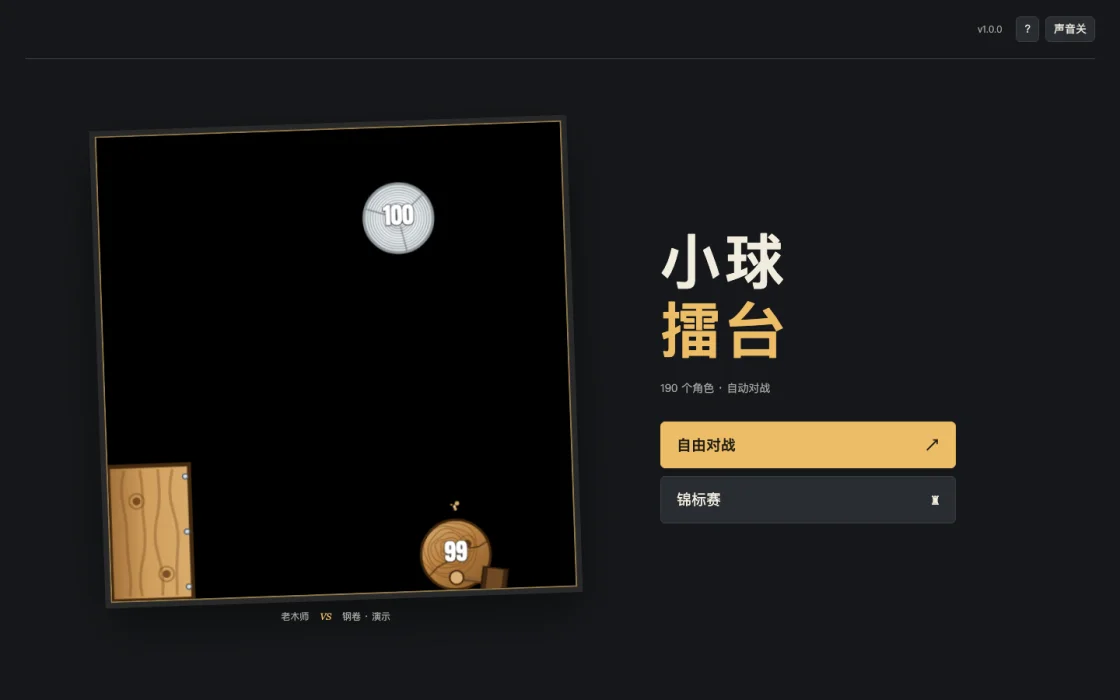
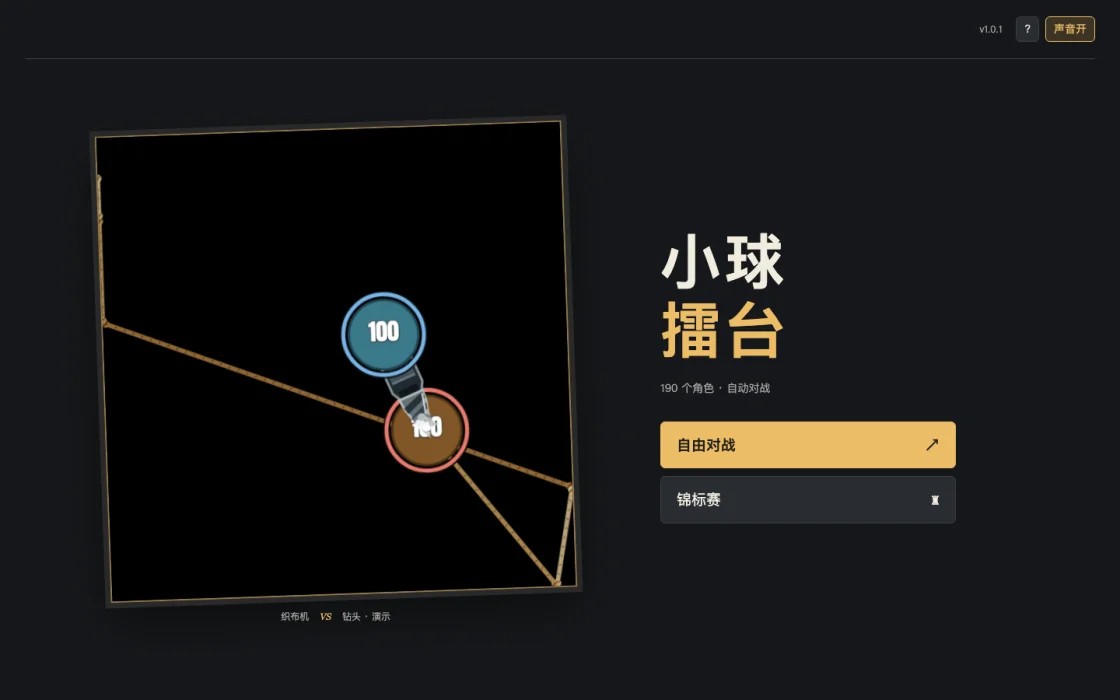
ball_arena: v1.0.1

diff --git a/games/ball_arena/web/style.css b/games/ball_arena/web/style.css
@@ -21,3 +21,5 @@ button.battle-note{padding:6px 0 0;background:none;border:0;border-radius:0;font
 @media(max-width:600px){.masthead #home-back{padding:3px 5px;font-size:11px}.home-screen{grid-template-columns:1fr;grid-template-rows:minmax(0,1fr) auto;gap:18px;padding:22px 24px 30px}.home-art{gap:11px}.home-arena{width:auto;height:calc(100% - 30px);max-width:100%;max-height:360px}.home-art p{font-size:10px}.home-menu{display:grid;grid-template-columns:1fr 1fr;gap:10px 20px;width:100%;max-width:none;align-items:center}.home-menu h2{font-size:43px;letter-spacing:2px;grid-row:1/3}.home-description{font-size:11px;margin-top:0;grid-column:1/-1;grid-row:3}.home-buttons{grid-column:2;grid-row:1/3;margin:0;gap:7px}.home-buttons>button{font-size:14px;padding:11px 12px;min-height:43px}.home-buttons>button[id^=home-continue]{padding:7px 10px;font-size:11px;min-height:30px}.tournament-heading{padding:14px 0 12px;gap:6px}.tournament-heading h2{font-size:22px}.tournament-heading p{font-size:10px}.tournament-heading-actions{gap:5px}.tournament-heading-actions button{font-size:11px;padding:6px 8px}.tournament-setup{grid-template-columns:1fr;gap:21px;padding:4px 0 18px;align-content:start}.tournament-screen legend{font-size:13px;margin-bottom:8px}.tournament-team-options button{font-size:22px;padding:13px 8px}.tournament-rule{font-size:11px;margin:9px 0}.tournament-options .check-row{margin:10px 0;padding:9px 0}.tournament-options #tournament-capacity{font-size:10px;margin-top:8px}#tournament-sizes{gap:7px}#tournament-sizes button{min-height:90px;padding:13px 9px}#tournament-sizes strong{font-size:20px}#tournament-sizes small{font-size:10px;line-height:1.6}.tournament-footer{gap:10px;padding:10px 0 max(12px,env(safe-area-inset-bottom))}.tournament-footer>div{min-width:0}.tournament-footer strong{font-size:12px}.tournament-footer p{font-size:10px;line-height:1.5}.tournament-footer .primary{font-size:13px;min-width:135px;padding:11px 12px}.tournament-matches{grid-template-columns:repeat(2,minmax(0,1fr));gap:7px}.tournament-match{padding:9px;gap:8px}.tournament-entrant{gap:6px}.tournament-entrant-copy strong{font-size:12px}.tournament-entrant-copy small{font-size:10px}.tournament-ball-dots i{width:13px;height:13px}.tournament-match-heading{font-size:10px}.tournament-match-heading small{font-size:9px}.tournament-champion{padding:10px 12px;margin-bottom:10px}.tournament-champion strong{font-size:20px}#tournament-rounds{gap:4px;padding-bottom:9px}#tournament-rounds button{font-size:11px;padding:5px 9px}#tournament-rounds small{margin-left:2px;font-size:9px}}
 @media(max-height:620px) and (min-width:650px){.home-screen{padding:15px 7%;gap:8%}.home-arena{width:auto;height:calc(100% - 28px);max-height:100%}.home-art{gap:8px}.home-menu h2{font-size:52px}.home-description{margin-top:10px;font-size:12px}.home-buttons{margin-top:17px;gap:7px}.home-buttons>button{font-size:16px;padding:9px 14px;min-height:39px}.home-buttons>button[id^=home-continue]{min-height:27px;padding:4px 14px;font-size:11px}.tournament-heading{padding:9px 0}.tournament-heading h2{font-size:21px}.tournament-heading p{font-size:11px}.tournament-setup{padding:4px 0 12px;gap:24px;align-content:center}.tournament-team-options button{padding:9px;font-size:22px}.tournament-rule{margin:8px 0;font-size:11px}.tournament-options .check-row{padding:7px 0;margin:7px 0}.tournament-options #tournament-capacity{font-size:11px;margin-top:6px}.tournament-screen legend{margin-bottom:7px;font-size:13px}#tournament-sizes{gap:7px}#tournament-sizes button{padding:11px;min-height:72px}#tournament-sizes strong{font-size:19px}#tournament-sizes small{font-size:10px}.tournament-footer{padding:8px 0}.tournament-footer .primary{padding:8px 14px;font-size:14px;min-width:165px}.tournament-footer p{font-size:11px}.tournament-champion{padding:7px 12px;margin-bottom:8px}.tournament-champion strong{font-size:18px}.tournament-champion>span{font-size:26px}#tournament-rounds{padding-bottom:8px}#tournament-rounds button{padding:4px 10px}.tournament-matches{gap:8px}.tournament-match{padding:9px}}
 @media(max-height:440px) and (min-width:650px){.home-menu h2{font-size:43px}.home-screen{padding:10px 8%;gap:8%}.home-description{margin-top:8px}.home-buttons{margin-top:12px;gap:6px}.home-buttons>button{font-size:14px;padding:8px 12px;min-height:34px}.home-buttons>button[id^=home-continue]{min-height:24px;font-size:10px}.tournament-heading{padding:7px 0}.tournament-heading h2{font-size:19px}.tournament-heading p{margin-top:0;font-size:10px}.tournament-heading-actions button{padding:4px 8px;font-size:11px}.tournament-setup{padding:3px 0 8px;gap:22px}.tournament-team-options button{padding:7px;font-size:20px}.tournament-rule{font-size:10px;margin:6px 0}.tournament-options .check-row{padding:6px 0;margin:6px 0}.tournament-options .check-row small{font-size:10px}.tournament-options #tournament-capacity{font-size:10px}.tournament-screen legend{font-size:12px;margin-bottom:6px}#tournament-sizes button{min-height:66px;padding:9px}#tournament-sizes small{font-size:10px;margin-top:4px}.tournament-footer{padding:6px 0}.tournament-footer strong{font-size:12px}.tournament-footer p{font-size:10px}.tournament-footer .primary{font-size:13px;padding:7px 12px;min-width:150px}.tournament-match{padding:8px;gap:5px}}
+
+.scoreboard.is-brawl .hp-fill{background:#b4aea0}.scoreboard.is-brawl .series-score span{color:var(--ink)}

diff --git a/games/ball_arena/web/app.js b/games/ball_arena/web/app.js
@@ -43,7 +43,7 @@ function drawHomeDemo(dt){
   $('home-demo-label').innerHTML=esc(left.name)+' <span>VS</span> '+esc(right.name)+' · 演示';
   $('home-arena').setAttribute('aria-label',left.name+'与'+right.name+'对战演示');$('home-arena').dataset.leftId=left.id;$('home-arena').dataset.rightId=right.id;
   const demo=B.createDeterministicSession({registry,seed,setup:e=>{e.createGame(left.id,right.id);e.beginFight();}});
-  homeDemo={session:demo,visibleSeconds:0,renderer:new B.CanvasRenderer($('home-arena'),demo.engine,{enableGpu:false,targetPixelSize:640})};
+  homeDemo={session:demo,visibleSeconds:0,renderer:new B.CanvasRenderer($('home-arena'),demo.engine,{enableGpu:false,targetPixelSize:640,teamColors:{left:'#ed796b',right:'#78b5e7'}})};
   homeDemo.renderer.readArenaShakeOffset=()=>({x:0,y:0});for(let i=0;i<180&&demo.engine.game.state==='running';i++)demo.advance(1/60);
  }
  homeDemo.visibleSeconds+=Math.min(.1,dt);
@@ -116,7 +116,7 @@ function teardown(){
  if(engine?.game){for(const ball of engine.game.balls)engine.invokeHook(ball,'onBattleDispose');engine.entitySystem.reset();engine.visualEffectSystem.reset();engine.activeModeController()?.dispose();}
  session=null;mechanisms=null;engine=null;renderer=null;accumulator=0;
 }
-function unlockAudio(){try{const ctx=audio.ensureContext();ctx?.resume().catch(()=>{});if(audio.master)audio.master.gain.value=.3;return true;}catch{return false;}}
+function unlockAudio(){try{const ctx=audio.ensureContext();ctx?.resume().catch(()=>{});if(audio.master)audio.master.gain.value=.8;return true;}catch{return false;}}
 function startMatch(){
  if(soundOn)unlockAudio();
  const error=M.validate(state,registry);if(error){toast(error);return;}
@@ -131,7 +131,7 @@ function startRound(seed,replay=false){
   session=B.createDeterministicSession({engine,seed:roundSeed,setup:e=>{e.createBattle(M.configFor(settings,B));mechanisms=new ArenaMechanisms(e,settings.hazards);e.beginFight();}});
   const update=engine.update.bind(engine);
   engine.update=dt=>{if(engine.game.state!=='running')return;const t=engine.game.time;update(dt);if(engine.game.state==='running')mechanisms.update(Math.max(0,engine.game.time-t));};
-  renderer=new B.CanvasRenderer($('arena'),engine,{enableGpu:false,targetPixelSize:800});
+  renderer=new B.CanvasRenderer($('arena'),engine,{enableGpu:false,targetPixelSize:800,teamColors:{left:'#ed796b',right:'#78b5e7'}});
   if(reduced.matches)renderer.readArenaShakeOffset=()=>({x:0,y:0});
   showScreen('battle');$('pause-indicator').hidden=true;$('pause').textContent='暂停';$('pause').disabled=false;$('step').disabled=true;
   resizeArena();renderHud();drawBattle();
@@ -147,6 +147,7 @@ function drawBattle(){if(!renderer||!engine?.game)return;renderer.draw();const c
 function renderHud(){
  if(!engine)return;
  const g=engine.game,s=matchState;
+ $('scoreboard').classList.toggle('is-brawl',s.mode==='brawl');
  $('timer').textContent=`${Math.floor((session?.steps||0)/3600)}:${String(Math.floor((session?.steps||0)/60)%60).padStart(2,'0')} / 3:00`;
  $('match-label').textContent=battleContext?(battleContext.title+(replaying?' · 重放':'')):M.MODES[s.mode]+(s.mode!=='brawl'&&series.length>1?` · 第 ${series.round} 局${replaying?' · 重放':''}`:replaying?' · 重放':'');
  const teamHtml=(balls,right=false)=>{const hp=balls.reduce((n,b)=>n+Math.max(0,b.hp),0),max=balls.reduce((n,b)=>n+b.maxHp,0),names=balls.map(b=>b.name+(b.hp<=0?' ×':b.isModeBench?' ·候场':'')).join(' / ');return `<div class="team-score ${right?'right':''}"><button class="names" data-team-roster="${right?1:0}" aria-label="查看${right?'蓝方':'红方'}阵容" title="${esc(names)}">${esc(names)} <small aria-hidden="true">⌄</small></button><span class="hp-data">${Math.ceil(hp)} / ${Math.ceil(max)} HP${balls.length>1?' · '+balls.filter(b=>b.hp>0).length+' 人存活':''}</span><div class="hp-track"><div class="hp-fill" style="width:${max?Math.min(100,hp/max*100):0}%"></div></div></div>`;};

diff --git a/games/ball_arena/src/ui/canvas-renderer.js b/games/ball_arena/src/ui/canvas-renderer.js
@@ -420,11 +420,13 @@
         renderScale = 4,
         targetPixelSize = null,
         preserveDrawingBuffer = true,
-        enableGpu = true
+        enableGpu = true,
+        teamColors = null
       } = {}
     ) {
       this.canvas = canvas;
       this.engine = engine;
+      this.teamColors = teamColors;
       this.defaultRenderScale = renderScale;
       this.targetPixelSize = Number.isFinite(targetPixelSize) && targetPixelSize > 0
         ? Math.round(targetPixelSize)
@@ -966,6 +968,7 @@
       }
       this.drawBallDamageFlash(ball);
       if (deform) context.restore();
+      this.drawTeamOutline(ball);
       this.drawBallStatusVisuals(ball);
       const hpDisplay = this.engine.invokeHook(ball, "getHpDisplay") || null;
       if (hpDisplay && hpDisplay.hidden === true) {
@@ -1039,6 +1042,24 @@
         (matrix.d * dx - matrix.c * dy) / determinant,
         (matrix.a * dy - matrix.b * dx) / determinant
       );
+    }
+
+    // 阵营环独立于角色本色；召唤物沿用实际归属，混战不虚构红蓝队伍。
+    drawTeamOutline(ball) {
+      if (!this.teamColors || this.engine.game?.config.mode === "brawl") return;
+      const color = this.teamColors[ball.teamId];
+      if (!color) return;
+      const context = this.context;
+      context.save();
+      context.beginPath();
+      context.arc(ball.x, ball.y, ball.radius + 2.4, 0, Math.PI * 2);
+      context.strokeStyle = "rgba(10, 12, 16, 0.9)";
+      context.lineWidth = 3.1;
+      context.stroke();
+      context.strokeStyle = color;
+      context.lineWidth = 1.7;
+      context.stroke();
+      context.restore();
     }
 
     drawBallStatusVisuals(ball) {

diff --git a/games/ball_arena/version.js b/games/ball_arena/version.js
@@ -1,1 +1,1 @@
-var GAME_VERSION = "1.0.0";
+var GAME_VERSION = "1.0.1";

diff --git a/games/ball_arena/tests/tournament_browser.py b/games/ball_arena/tests/tournament_browser.py
@@ -26,7 +26,7 @@ try:
   for prefix in ['/', '/Games/']:
    context=browser.new_context(viewport={'width':1440,'height':900},reduced_motion='reduce');page=context.new_page();errors=[];missing=[]
    page.on('pageerror',lambda e:errors.append(str(e)));page.on('response',lambda r:missing.append(r.url) if r.status>=400 else None)
-   page.goto(BASE+prefix+'games/ball_arena/',wait_until='networkidle');assert page.locator('#home').is_visible();assert page.locator('#version').inner_text()=='v1.0.0';assert page.locator('.hall-link').count()==0
+   page.goto(BASE+prefix+'games/ball_arena/',wait_until='networkidle');assert page.locator('#home').is_visible();assert page.locator('#version').inner_text()=='v1.0.1';assert page.locator('.hall-link').count()==0
    for w,h in SIZES:
     page.set_viewport_size({'width':w,'height':h});page.wait_for_timeout(90);fit(page,['#home-free','#home-tournament','#version','#help','#sound']);assert page.evaluate("(()=>{const e=document.querySelector('.home-arena');return Math.abs(e.clientWidth-e.clientHeight)<2})()");snap(page,f'home-{prefix.strip("/") or "root"}-{w}x{h}')
    page.click('#home-tournament');assert page.locator('[data-tournament-size]').count()==6

diff --git a/games/ball_arena/AGENTS.md b/games/ball_arena/AGENTS.md
@@ -2,7 +2,7 @@
 
 遵守根目录 AGENTS.md。保留原作来源与 Kizu_Na 致谢；新增代码位于 web/，不要把旧平台外壳、统计、跳转或 SDK 带入。
 
-- 主界面为默认入口，自由对战与锦标赛分开进入；游戏内只返回主界面，不增加回大厅链接。版本为 1.0.0。
+- 主界面为默认入口，自由对战与锦标赛分开进入；游戏内只返回主界面，不增加回大厅链接。版本为 1.0.1。
 - 锦标赛沿用原作精英占两个名额、角色不重复的规则；4–128 强按 2 的幂选择，容量不足须置灰，不静默缩小。平局重赛，不任意指定胜者。保存赛程但不保存中途对战，重放不改赛果。
 - 选人页面为视口内布局，只有角色目录滚动；阵容、搜索筛选及开战操作始终可达。多人模式不得用省略整队的方式掩盖布局问题。
 - 保留 184 个原角色定义，新增角色通过 registerBall 注册；机制标签在 web/tags.js 独立维护。
@@ -11,3 +11,5 @@
 - 同种子重放必须重建所有状态，不能重复计入系列赛。返回选人保留目录位置、阵容与筛选；调整窗口不重开对局。
 - 本游戏独立打开，不依赖原站。保存采用 ball-arena-settings-v1，禁止清除其他游戏存储，不注册 Service Worker。
 - 验证：README 中的逻辑、浏览器和大厅命令。浏览器尺寸为 1920×1080、1440×900、1280×720、960×540、844×390、390×844；检查真实截图，特别是矮屏完整卡片、六人阵容和手机筛选。截图及测试输出放临时目录或 test-output/。
+
+- 场上红蓝阵营环必须与血条一致，不能用角色本色推断阵营；召唤物跟随实际归属。自由混战不使用红蓝队伍标识，目录预览不显示阵营环。

diff --git a/games/ball_arena/README.md b/games/ball_arena/README.md
@@ -1,4 +1,4 @@
-# 小球擂台 · 1.0.0
+# 小球擂台 · 1.0.1
 
 190 个角色的自动对战沙盒。角色目录独立滚动，双方阵容和开战按钮始终可见。主界面提供自由对战和锦标赛入口，自由对战的默认对阵为老木师 VS 钢卷。使用浏览器后退返回 Games 大厅，游戏内不放置回大厅按钮。
 
@@ -65,3 +65,11 @@ npm run test:browser
 ```
 
 浏览器验证需要 Python Playwright 与 Chromium；可通过 `PLAYWRIGHT_BROWSERS_PATH` 指定测试浏览器目录。截图默认写入系统临时目录 `ball-arena-checks`。覆盖根路径与 `/Games/` 子路径、六种窗口、连续缩放、完整选人和观战操作、系列赛、180 秒平局、重放、触屏和禁用存储。
+
+## 版本更新记录
+
+### v1.0.1 — 2026-11-09
+
+- 场上角色增加红／蓝阵营轮廓，与双方血条对应，保留角色原有颜色和技能外观；队友与召唤物使用所属队伍的颜色。适用于单挑、团战、车轮战、Boss 挑战和锦标赛。
+- 主界面随机演示也显示阵营轮廓；角色目录预览不显示阵营色。自由混战各自为战，不绘制红蓝轮廓，血条使用中性色。
+- 包含此前小修复：眩晕改用清晰闪电图形、声音默认开启并调高整体音量、主界面随机演示不同角色对阵。

diff --git a/README.md b/README.md
@@ -4,7 +4,7 @@
 
 | 游戏 | 目录 | 初始版本 | 输入 |
 | --- | --- | --- | --- |
-| 小球擂台 | `games/ball_arena` | 1.0.0 | 鼠标／触屏；自动对战 |
+| 小球擂台 | `games/ball_arena` | 1.0.1 | 鼠标／触屏；自动对战 |
 | 街机赛车 | `games/car_racing` | 0.1.0（早期开发） | 键盘；本地双人 |
 | 函数导弹 | `games/function_missel` | 1.0.0 | 鼠标与键盘；本地多人 |
 | 生命游戏 | `games/game_of_life` | 1.0.0 | 鼠标与键盘 |
